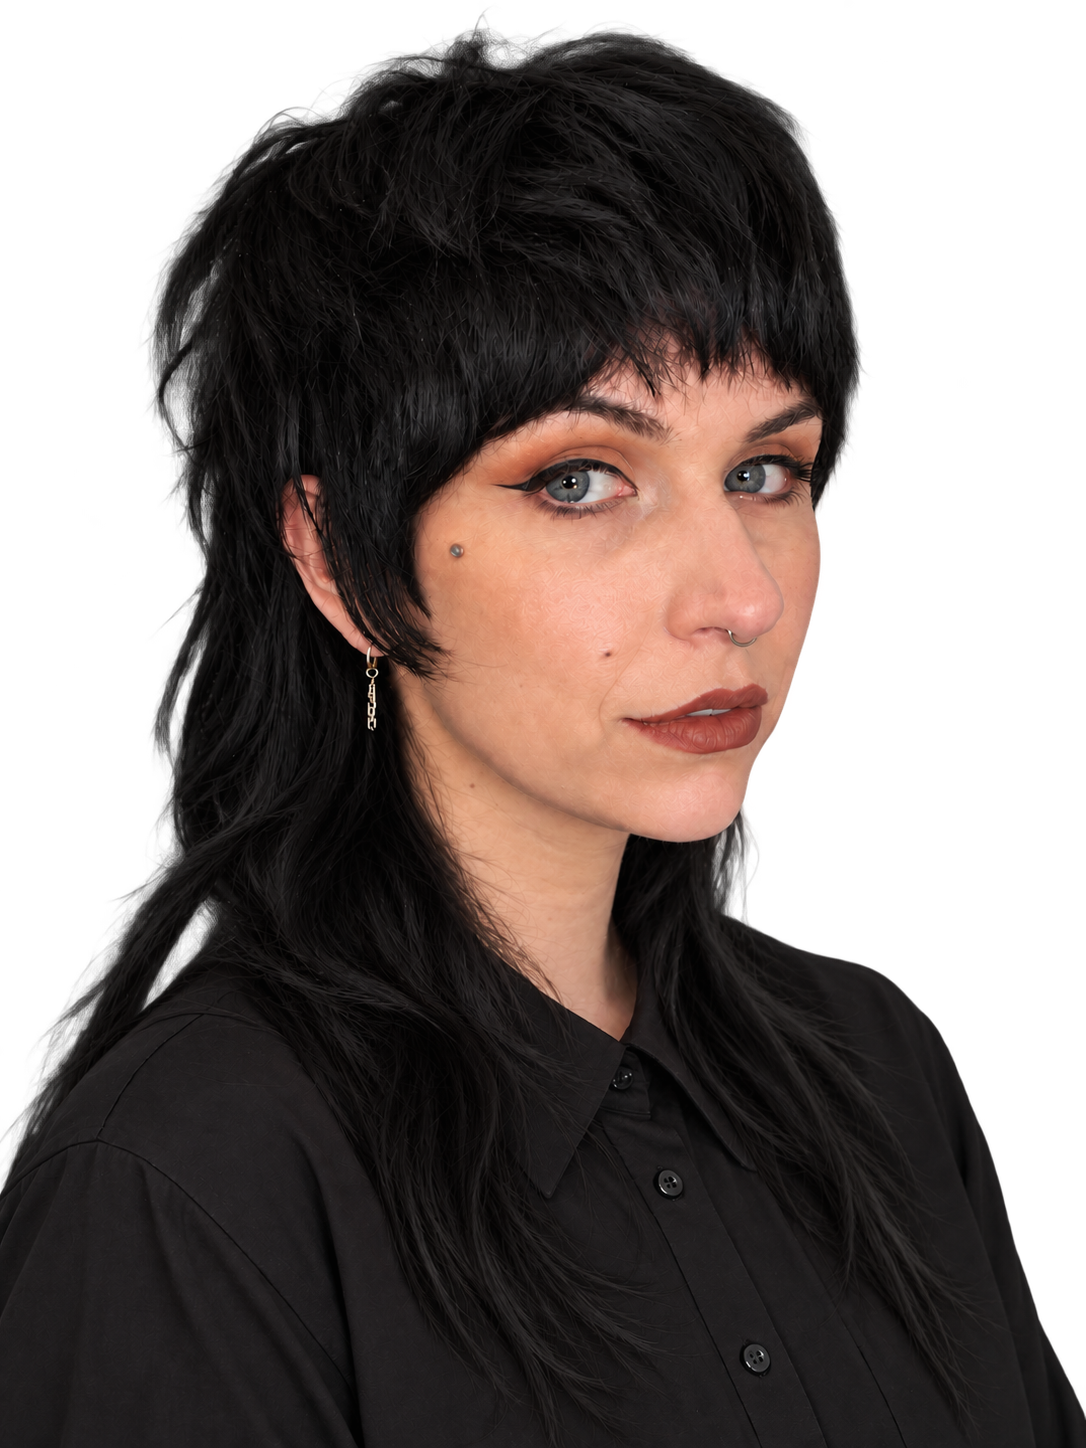
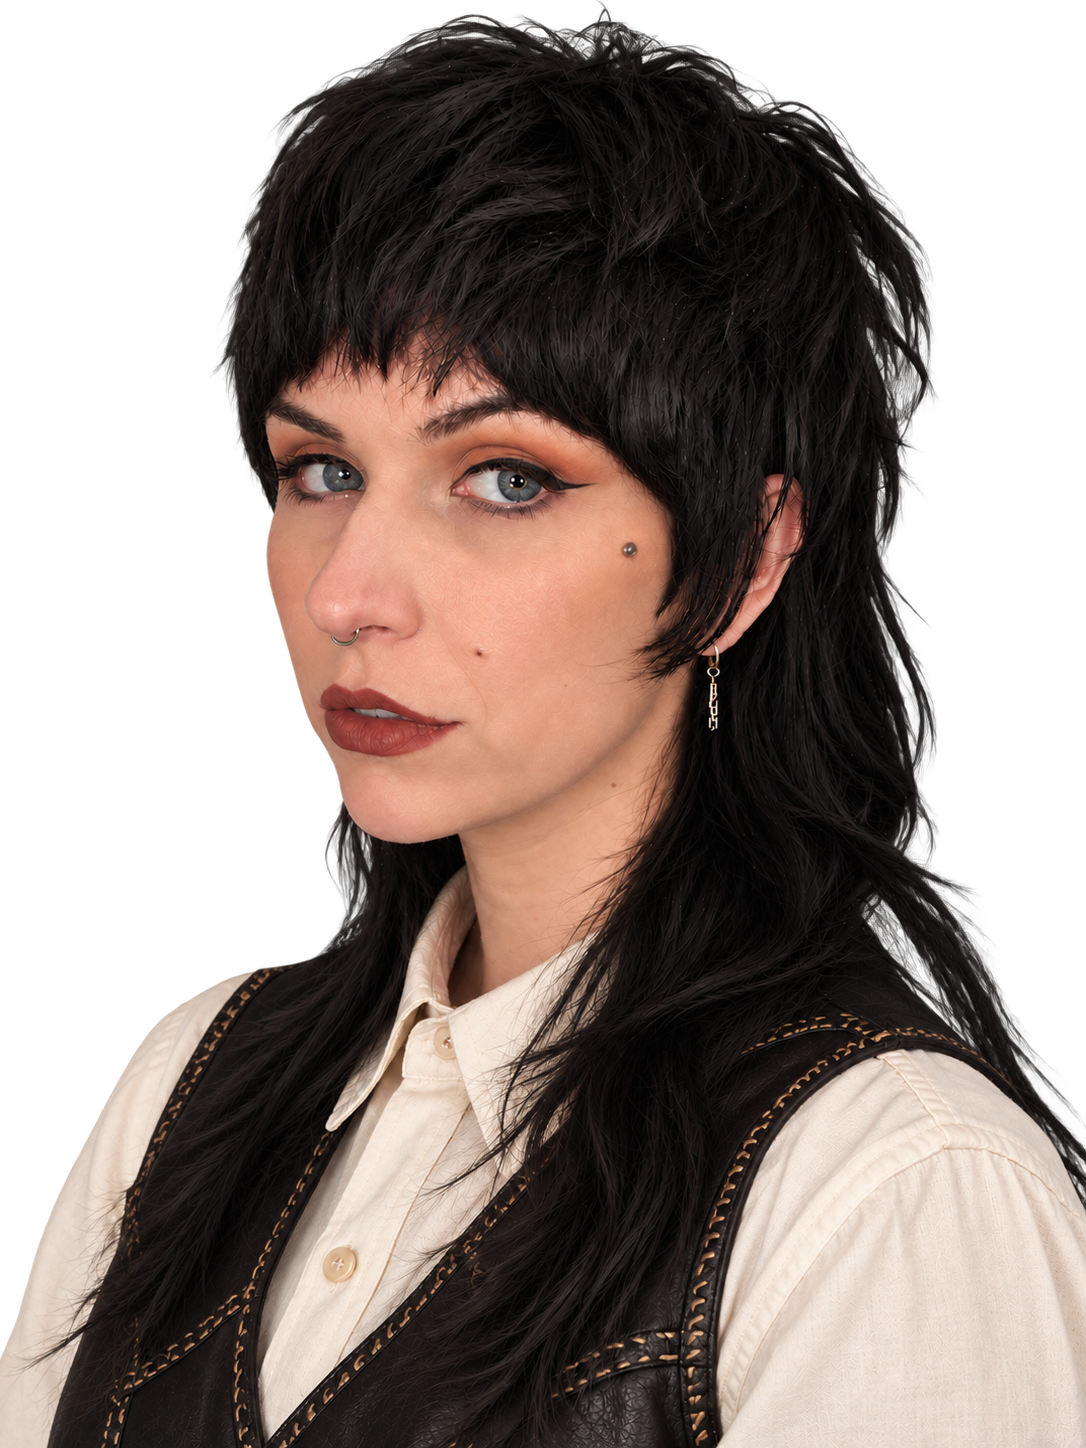
Frame portrait and put intro beside it

diff --git a/index.html b/index.html
@@ -5,9 +5,24 @@
   <meta name="viewport" content="width=device-width, initial-scale=1.0">
   <title>Eryn Montgomery</title>
   <link rel="icon" href="assets/favicon.png">
+  <style>
+    .intro {
+      display: flex;
+      flex-wrap: wrap;
+      align-items: center;
+      justify-content: space-between;
+      gap: 2rem;
+      max-width: 64rem;
+      margin: 0 auto;
+      padding: 2rem 1rem;
+    }
+    .intro img { width: 100%; max-width: 26rem; height: auto; }
+  </style>
 </head>
 <body>
-  <h1>Hi, I'm Eryn Montgomery</h1>
-  <img src="assets/eryn-portrait.png" alt="Eryn Montgomery" width="1086" height="1448" style="width: 100%; max-width: 20rem; height: auto;">
+  <section class="intro">
+    <h1>Hi, I'm Eryn Montgomery</h1>
+    <img src="assets/eryn-portrait-framed.png" alt="Eryn Montgomery" width="1576" height="1624">
+  </section>
 </body>
 </html>

diff --git a/scripts/make-framed-portrait.py b/scripts/make-framed-portrait.py
@@ -1,0 +1,43 @@
+"""Put assets/eryn-portrait.png inside assets/portrait-frame.png.
+
+Rerun after changing either image:  python3 scripts/make-framed-portrait.py
+Writes:
+  assets/portrait-frame-black.png  - the frame inverted to black, both backgrounds transparent
+  assets/eryn-portrait-framed.png  - the portrait clipped to the frame's inner shape, frame on top
+"""
+from pathlib import Path
+from PIL import Image, ImageDraw, ImageFilter
+
+ASSETS = Path(__file__).resolve().parent.parent / "assets"
+SCALE = 2          # the frame source is small; render at 2x so it stays sharp
+PORTRAIT_ZOOM = 1.15  # portrait width relative to the frame's inner width
+FACE_Y = 0.36      # where the face sits in the portrait, as a fraction of its height
+
+frame_src = Image.open(ASSETS / "portrait-frame.png").convert("L")
+frame_src = frame_src.resize((frame_src.width * SCALE, frame_src.height * SCALE), Image.LANCZOS)
+
+# Invert (white frame -> black) and make everything that isn't frame transparent.
+frame = Image.new("RGBA", frame_src.size, (0, 0, 0, 255))
+frame.putalpha(frame_src)
+frame.save(ASSETS / "portrait-frame-black.png", optimize=True)
+
+# Inner shape: flood-fill the non-frame area from the center, then grow it slightly to tuck under the frame.
+binary = frame_src.point(lambda v: 255 if v > 128 else 0)
+center = (binary.width // 2, binary.height // 2)
+ImageDraw.floodfill(binary, center, 128)
+inner = binary.point(lambda v: 255 if v == 128 else 0).filter(ImageFilter.MaxFilter(9))
+left, top, right, bottom = inner.getbbox()
+
+portrait = Image.open(ASSETS / "eryn-portrait.png").convert("RGBA")
+width = int((right - left) * PORTRAIT_ZOOM)
+portrait = portrait.resize((width, int(portrait.height * width / portrait.width)), Image.LANCZOS)
+x = (left + right) // 2 - width // 2
+y = (top + bottom) // 2 - int(portrait.height * FACE_Y)
+
+layer = Image.new("RGBA", frame.size, (0, 0, 0, 0))
+layer.paste(portrait, (x, y), portrait)
+clipped = Image.new("RGBA", frame.size, (0, 0, 0, 0))
+clipped.paste(layer, (0, 0), inner)
+clipped.alpha_composite(frame)
+clipped.save(ASSETS / "eryn-portrait-framed.png", optimize=True)
+print("wrote", clipped.size, f"{(ASSETS / 'eryn-portrait-framed.png').stat().st_size // 1024} KB")
